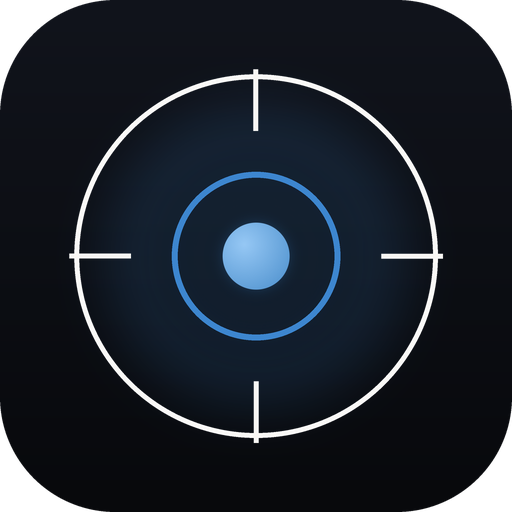
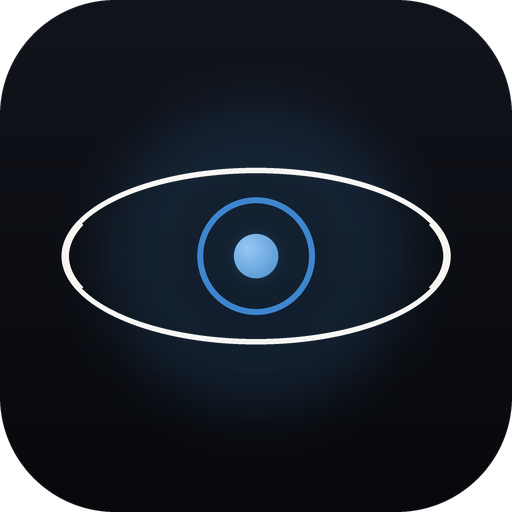
Cuenta reinicia a 50k al pasar el eval + ojo animado de fondo + hero de landing con el ojo

diff --git a/index.html b/index.html
@@ -412,6 +412,9 @@
   .gate-err{color:var(--rojo);font-size:.8rem}
 
   #field{position:fixed;inset:0;z-index:0;opacity:.9;transition:opacity .8s;pointer-events:none}
+  .eye-bg{position:fixed;left:50%;top:46%;transform:translate(-50%,-50%);width:min(80vw,940px);height:auto;z-index:0;pointer-events:none;color:var(--ink);opacity:.075}
+  #eyeBall{transition:none}
+  @media(prefers-reduced-motion:reduce){.eye-bg{opacity:.05}}
   .amr-art{position:fixed;inset:0;z-index:0;pointer-events:none;opacity:.7}
   body[data-estado="BLOQUEADO"] .amr-art{display:none}
   .grain{position:fixed;inset:0;z-index:1;pointer-events:none;opacity:.05;mix-blend-mode:overlay;
@@ -1202,6 +1205,14 @@
 <button id="pwa-install" class="pwa-install" data-hover>⬇ Instalar la app</button>
 
   <canvas id="field"></canvas>
+  <!-- el Spotter: un ojo de fondo que te vigila (misma proporción que el ojo de la landing) -->
+  <svg class="eye-bg" aria-hidden="true" viewBox="0 0 440 200" preserveAspectRatio="xMidYMid meet">
+    <ellipse cx="220" cy="100" rx="200" ry="91" fill="none" stroke="currentColor" stroke-width="1.7" opacity=".55"/>
+    <g id="eyeBall">
+      <circle cx="220" cy="100" r="56" fill="none" stroke="var(--accent)" stroke-width="1.7" opacity=".7"/>
+      <circle cx="220" cy="100" r="21" fill="var(--accent)" opacity=".55"/>
+    </g>
+  </svg>
   <svg class="amr-art" id="amrArt" aria-hidden="true" viewBox="0 0 1200 1600" preserveAspectRatio="xMidYMid slice">
     <defs>
       <filter id="amrInk" x="-25%" y="-25%" width="150%" height="150%">
@@ -1896,7 +1907,7 @@
       consistency:(a.consistency!=null?a.consistency:r.consistency),
       minDays:(a.minDays!=null?a.minDays:r.minDays) }; }
   function guardStats(){ const g=guardLoad(), size=g.size;
-    const h=histLoad().filter(x=>!x.sim&&x.pnl!=null).slice().sort((a,b)=>(a.fecha||"").localeCompare(b.fecha||""));
+    const h=currentTrades(); // solo la cuenta VIVA: al pasar el eval la cuenta reinicia en el tamaño base
     let eq=size, peak=size; const dayPnl={};
     h.forEach(x=>{ eq+=x.pnl; if(eq>peak)peak=eq; dayPnl[x.fecha]=(dayPnl[x.fecha]||0)+x.pnl; });
     const dd=Math.max(0,peak-eq), todayPnl=dayPnl[hoy()]||0, days=Object.keys(dayPnl).length;
@@ -1930,7 +1941,7 @@
       <p class="home-note">Your <b>${g.phaseLabel.toLowerCase()}</b> rules, auto-applied · distances from your journal. Adjust in Settings — confirm with your plan, every firm differs.</p></div>`; }
   /* Equity curve + blow-up line (trailing-peak drawdown − max DD) */
   function equityCard(){ const g=guardLoad(), size=g.size, maxDD$=Math.round(size*g.maxDD);
-    const h=histLoad().filter(x=>!x.sim&&x.pnl!=null).slice().sort((a,b)=>(a.fecha||"").localeCompare(b.fecha||""));
+    const h=currentTrades(); // solo la cuenta VIVA: al pasar el eval la cuenta reinicia en el tamaño base
     if(h.length<2||maxDD$<=0)return "";
     let eq=size,peak=size,worstDD=0,closest=maxDD$; const eqS=[size],flS=[size-maxDD$],dayMap={};
     h.forEach(x=>{ eq+=x.pnl; if(eq>peak)peak=eq; const floor=peak-maxDD$; eqS.push(eq); flS.push(floor);
@@ -1954,7 +1965,7 @@
       `<polygon points="${eqArea}" fill="url(#${gid})"/>`+
       `<polyline points="${eqPts}" fill="none" stroke="var(--accent)" stroke-width="2" stroke-linejoin="round" vector-effect="non-scaling-stroke"/>`+
       `<circle cx="${lx.toFixed(1)}" cy="${ly.toFixed(1)}" r="4" fill="var(--accent)"/></svg>`;
-    return `<div class="p-card"><div class="c-t">Your equity vs the blow-up <span class="room-agg">red line = drawdown limit</span></div>
+    return `<div class="p-card"><div class="c-t">Your equity vs the blow-up <span class="room-agg">${evalPassSplit().passed?`funded account · restarted at $${size.toLocaleString("en-US")}`:"red line = drawdown limit"}</span></div>
       ${svg}
       <div class="eq-legend"><span><i class="eq-dot acc"></i>Your equity</span><span><i class="eq-dot dn"></i>Blow-up (peak − $${maxDD$.toLocaleString("en-US")})</span></div>
       ${survival!=null?`<div class="eq-survival ${svClass}"><span class="sv-n">${survival}</span><div><b>days of margin</b><small>you can take ~${survival} ${survival===1?"day":"days"} of $${badDay.toLocaleString("en-US")} (${svLabel}) before the blow-up</small></div></div>`:""}
@@ -1990,6 +2001,17 @@
   function poutLoad(){try{return JSON.parse(localStorage.getItem("candado_payouts"))||[];}catch(e){return[];}}
   function poutSave(p){try{localStorage.setItem("candado_payouts",JSON.stringify(p));}catch(e){}}
   function totalProfit(){ return NPtrades().filter(t=>t.pnl!=null&&!t.sim).reduce((a,t)=>a+t.pnl,0); }
+  /* REGLA REAL: al pasar el eval, la cuenta fondeada ARRANCA otra vez en el tamaño base
+     (los $50k) — el profit del eval no se hereda. Partimos el journal en ese punto. */
+  function evalPassSplit(){
+    const acc=acctLoad()||{}, tgt=acc.evalTarget||1000;
+    const h=histLoad().filter(x=>!x.sim&&x.pnl!=null).slice().sort((a,b)=>(a.fecha||"").localeCompare(b.fecha||""));
+    let cum=0, idx=-1;
+    for(let i=0;i<h.length;i++){ cum+=h[i].pnl||0; if(cum>=tgt){ idx=i; break; } }
+    return { all:h, passed:idx>=0, evalTrades:idx>=0?h.slice(0,idx+1):h, fundedTrades:idx>=0?h.slice(idx+1):[] };
+  }
+  function currentTrades(){ const s=evalPassSplit(); return s.passed?s.fundedTrades:s.evalTrades; } // la cuenta VIVA
+  function currentProfit(){ return currentTrades().reduce((a,t)=>a+(t.pnl||0),0); }
   function avgGreen(){ const w=NPtrades().filter(t=>t.pnl>0&&!t.sim); return w.length?w.reduce((a,t)=>a+t.pnl,0)/w.length:0; }
   function simProfit(){ return NPtrades().filter(t=>t.pnl!=null&&t.sim).reduce((a,t)=>a+t.pnl,0); }
   function firmar(){ try{localStorage.setItem("candado_pledge",hoy());}catch(e){} if(vistaActual==="progreso")mostrar("progreso"); }
@@ -2048,8 +2070,9 @@
   function youRacer(){
     const name=profileLoad().handle||"trader";
     const prof=totalProfit(), acc=acctLoad()||{evalTarget:1000,size:50000}, tgt=acc.evalTarget||1000, size=acc.size||50000, cashedN=poutLoad().length;
-    if(cashedN>0) return {u:name,you:true,phase:"payout",balance:size+prof,payouts:cashedN};
-    if(prof>=tgt) return {u:name,you:true,phase:"funded",balance:size+prof,bufferPct:Math.min(100,Math.round((prof-tgt)/(tgt*0.6)*100))};
+    const live=currentProfit(); // al pasar el eval la cuenta reinicia en el tamaño base: el balance cuenta desde ahí
+    if(cashedN>0) return {u:name,you:true,phase:"payout",balance:size+live,payouts:cashedN};
+    if(prof>=tgt) return {u:name,you:true,phase:"funded",balance:size+live,bufferPct:Math.min(100,Math.round(Math.max(0,live)/(tgt*0.6)*100))};
     return {u:name,you:true,phase:"eval",balance:size+prof,evalPct:Math.max(0,Math.min(100,Math.round(prof/tgt*100)))};
   }
   /* ---------- Community: join a REAL crew with a shared code (no bots) ---------- */
@@ -2711,7 +2734,7 @@
     const cp=progLoad(), lc=allLessons(), cpct=lc.length?Math.round(lc.filter(l=>cp[l.id]).length/lc.length*100):0;
     const items=NAV.map(it=>it.group?`<div class="nav-group">${it.group}</div>`
       :`<button class="navitem" data-route="${it.r}" data-hover><span>${it.label}</span>${it.r==="course"?`<span class="nav-badge">${cpct}%</span>`:""}</button>`).join("");
-    $("#sidebar").innerHTML=`<div class="sb-brand"><svg viewBox="0 0 32 32" class="brand-mark" aria-hidden="true"><g class="spin"><circle cx="16" cy="16" r="12.6" fill="none" stroke="currentColor" stroke-width="1.4" opacity=".4"/><path d="M16 3.4v4.4M16 24.2v4.4M3.4 16h4.4M24.2 16h4.4" stroke="currentColor" stroke-width="1.4" opacity=".4" stroke-linecap="round"/></g><circle class="lock" cx="16" cy="16" r="5.4" fill="none" stroke="var(--accent)" stroke-width="1.35"/><circle cx="16" cy="16" r="2.2" fill="var(--accent)"/></svg>SPOTTER <i>AI</i></div>${userLoad()?`<div class="trial-badge">Full access</div>`:""}
+    $("#sidebar").innerHTML=`<div class="sb-brand"><svg viewBox="0 0 32 32" class="brand-mark" aria-hidden="true"><ellipse cx="16" cy="16" rx="13.2" ry="6" fill="none" stroke="currentColor" stroke-width="1.4" opacity=".45"/><circle class="lock" cx="16" cy="16" r="3.7" fill="none" stroke="var(--accent)" stroke-width="1.35"/><circle cx="16" cy="16" r="1.5" fill="var(--accent)"/></svg>SPOTTER <i>AI</i></div>${userLoad()?`<div class="trial-badge">Full access</div>`:""}
       <button class="sb-profile" data-route="profile" data-hover><span class="tb-av">${(name.trim()[0]||"T").toUpperCase()}</span><span class="sb-pinfo"><b>${esc(name)}</b><small>your profile</small></span></button>
       <nav class="navlist">${items}</nav>
       <div class="sb-foot"><button class="navitem" data-route="settings" data-hover><span>Settings</span></button><a class="navitem" href="${DISCORD}" target="_blank" rel="noopener" data-hover><span>Discord →</span></a></div>`;
@@ -2807,7 +2830,7 @@
     const d=ONB.data, s=ONB.step, last=ONB_STEPS.length-1;
     const prog=`<div class="onb-prog">${ONB_STEPS.map((_,i)=>`<span class="${i<=s?"on":""}"></span>`).join("")}</div>`;
     let body="";
-    if(s===0) body=`<div class="onb-brand"><svg viewBox="0 0 32 32" class="brand-mark" aria-hidden="true"><g class="spin"><circle cx="16" cy="16" r="12.6" fill="none" stroke="currentColor" stroke-width="1.4" opacity=".4"/><path d="M16 3.4v4.4M16 24.2v4.4M3.4 16h4.4M24.2 16h4.4" stroke="currentColor" stroke-width="1.4" opacity=".4" stroke-linecap="round"/></g><circle class="lock" cx="16" cy="16" r="5.4" fill="none" stroke="var(--accent)" stroke-width="1.35"/><circle cx="16" cy="16" r="2.2" fill="var(--accent)"/></svg>SPOTTER <i>AI</i></div>
+    if(s===0) body=`<div class="onb-brand"><svg viewBox="0 0 32 32" class="brand-mark" aria-hidden="true"><ellipse cx="16" cy="16" rx="13.2" ry="6" fill="none" stroke="currentColor" stroke-width="1.4" opacity=".45"/><circle class="lock" cx="16" cy="16" r="3.7" fill="none" stroke="var(--accent)" stroke-width="1.35"/><circle cx="16" cy="16" r="1.5" fill="var(--accent)"/></svg>SPOTTER <i>AI</i></div>
       <h1 class="onb-h">From zero<br>to <em>payout.</em></h1>
       <p class="onb-p">Two minutes to set up your platform — your profile, your rules, your room. Everything stays yours and editable.</p>
       <button class="btn fill lg" data-onb="next" data-hover>Start →</button>`;
@@ -2898,6 +2921,16 @@
       bar.innerHTML=`<span class="lb-dot"></span><b>LIVE</b> · ${esc(d.title||"André is streaming")} · ${plat} <span class="lb-cta">Watch now →</span>`;
     }else if(bar){ bar.remove(); }
   }
+  /* --- the Spotter's eye: the pupil tracks your cursor; when you stop, it drifts on its own --- */
+  (function(){ const g=document.getElementById("eyeBall"); if(!g)return;
+    let tx=0,ty=0,cx=0,cy=0,idle=999;
+    addEventListener("mousemove",e=>{ tx=((e.clientX/innerWidth)-.5)*2; ty=((e.clientY/innerHeight)-.5)*2; idle=0; },{passive:true});
+    (function loop(){ idle++;
+      if(idle>200){ const t=Date.now()*0.00035; tx=Math.cos(t)*.55; ty=Math.sin(t*0.8)*.4; } // a wandering gaze
+      cx+=((tx*104)-cx)*.055; cy+=((ty*30)-cy)*.055;   // the iris moves INSIDE the eye
+      g.setAttribute("transform","translate("+cx.toFixed(1)+","+cy.toFixed(1)+")");
+      requestAnimationFrame(loop); })();
+  })();
   window.__liveStatus=applyLive;                 // the native app injects the status here
   /* --- session auto-detection + global hotkey ⌘⇧B (injected by the native app) --- */
   window.__tradingDetected=function(platform){ try{

diff --git a/landing.html b/landing.html
@@ -42,7 +42,11 @@
   nav.top{position:fixed;top:0;left:0;width:100%;z-index:50;backdrop-filter:blur(12px);
     background:rgba(7,7,9,.55);border-bottom:1px solid var(--line);transition:transform .5s var(--ease)}
   .nav-in{display:flex;align-items:center;justify-content:space-between;padding:14px 0}
-  .brand{font-family:var(--mono);font-size:14px;letter-spacing:.3em;font-weight:600}
+  .brand{font-family:var(--mono);font-size:14px;letter-spacing:.3em;font-weight:600;display:inline-flex;align-items:center;gap:9px}
+  .brand-eye{width:26px;height:26px;flex:none;color:var(--text);overflow:visible}
+  .brand-eye circle:last-child{animation:eyePulse 3.4s ease-in-out infinite;transform-origin:16px 16px}
+  @keyframes eyePulse{0%,100%{opacity:1;transform:scale(1)}50%{opacity:.72;transform:scale(.86)}}
+  @media(prefers-reduced-motion:reduce){.brand-eye circle:last-child{animation:none}}
   .brand i{color:var(--acc);font-style:normal}
   .nav-links{display:flex;gap:24px;font-family:var(--mono);font-size:10.5px;letter-spacing:.18em;text-transform:uppercase;color:var(--dim)}
   .nav-links a:hover{color:var(--text)}
@@ -350,7 +354,7 @@
 <div class="grain" aria-hidden="true"></div>
 
 <nav class="top" id="topnav"><div class="wrap nav-in">
-  <div class="brand">SPOTTER <i>AI</i></div>
+  <div class="brand"><svg class="brand-eye" viewBox="0 0 32 32" aria-hidden="true"><ellipse cx="16" cy="16" rx="13.2" ry="6" fill="none" stroke="currentColor" stroke-width="1.5" opacity=".5"/><circle cx="16" cy="16" r="3.7" fill="none" stroke="var(--acc)" stroke-width="1.5"/><circle cx="16" cy="16" r="1.5" fill="var(--acc)"/></svg>SPOTTER <i>AI</i></div>
   <div class="nav-links">
     <a href="#historia">La historia</a><a href="#oferta">La oferta</a><a href="#mentor">Tu mentor</a><a href="#spotter">El software</a>
   </div>
@@ -662,7 +666,7 @@
 </div></div></section>
 
 <footer><div class="wrap foot-in">
-  <div class="brand">SPOTTER <i>AI</i></div>
+  <div class="brand"><svg class="brand-eye" viewBox="0 0 32 32" aria-hidden="true"><ellipse cx="16" cy="16" rx="13.2" ry="6" fill="none" stroke="currentColor" stroke-width="1.5" opacity=".5"/><circle cx="16" cy="16" r="3.7" fill="none" stroke="var(--acc)" stroke-width="1.5"/><circle cx="16" cy="16" r="1.5" fill="var(--acc)"/></svg>SPOTTER <i>AI</i></div>
   <div class="foot-links">
     <a id="foot-disc" target="_blank" rel="noopener">Discord</a>
     <a id="foot-app">Plataforma</a>
@@ -891,7 +895,7 @@
     ["#extras","rain"],["#camino","rise"],["#educacion","orbit"],["#semana","grid"],["#faq","chaos"]]
     .map(([q,f])=>[document.querySelector(q),f]).filter(x=>x[0]);
   const FK=["chaos","fall","rise","orbit","eye","grid","helix","rain","spire"];
-  const W={chaos:1,fall:0,rise:0,orbit:0,eye:0,grid:0,helix:0,rain:0,spire:0};
+  const W={chaos:0,fall:0,rise:0,orbit:0,eye:1,grid:0,helix:0,rain:0,spire:0}; // el hero abre con EL OJO (el Spotter que te vigila)
   const chPr=el=>{const r=el.getBoundingClientRect();return -r.top/((r.height-innerHeight)||1);};
   const st={mx:0,my:0,smx:0,smy:0,p:0};
   addEventListener("mousemove",e=>{st.mx=(e.clientX/innerWidth-.5)*2;st.my=(e.clientY/innerHeight-.5)*2;});